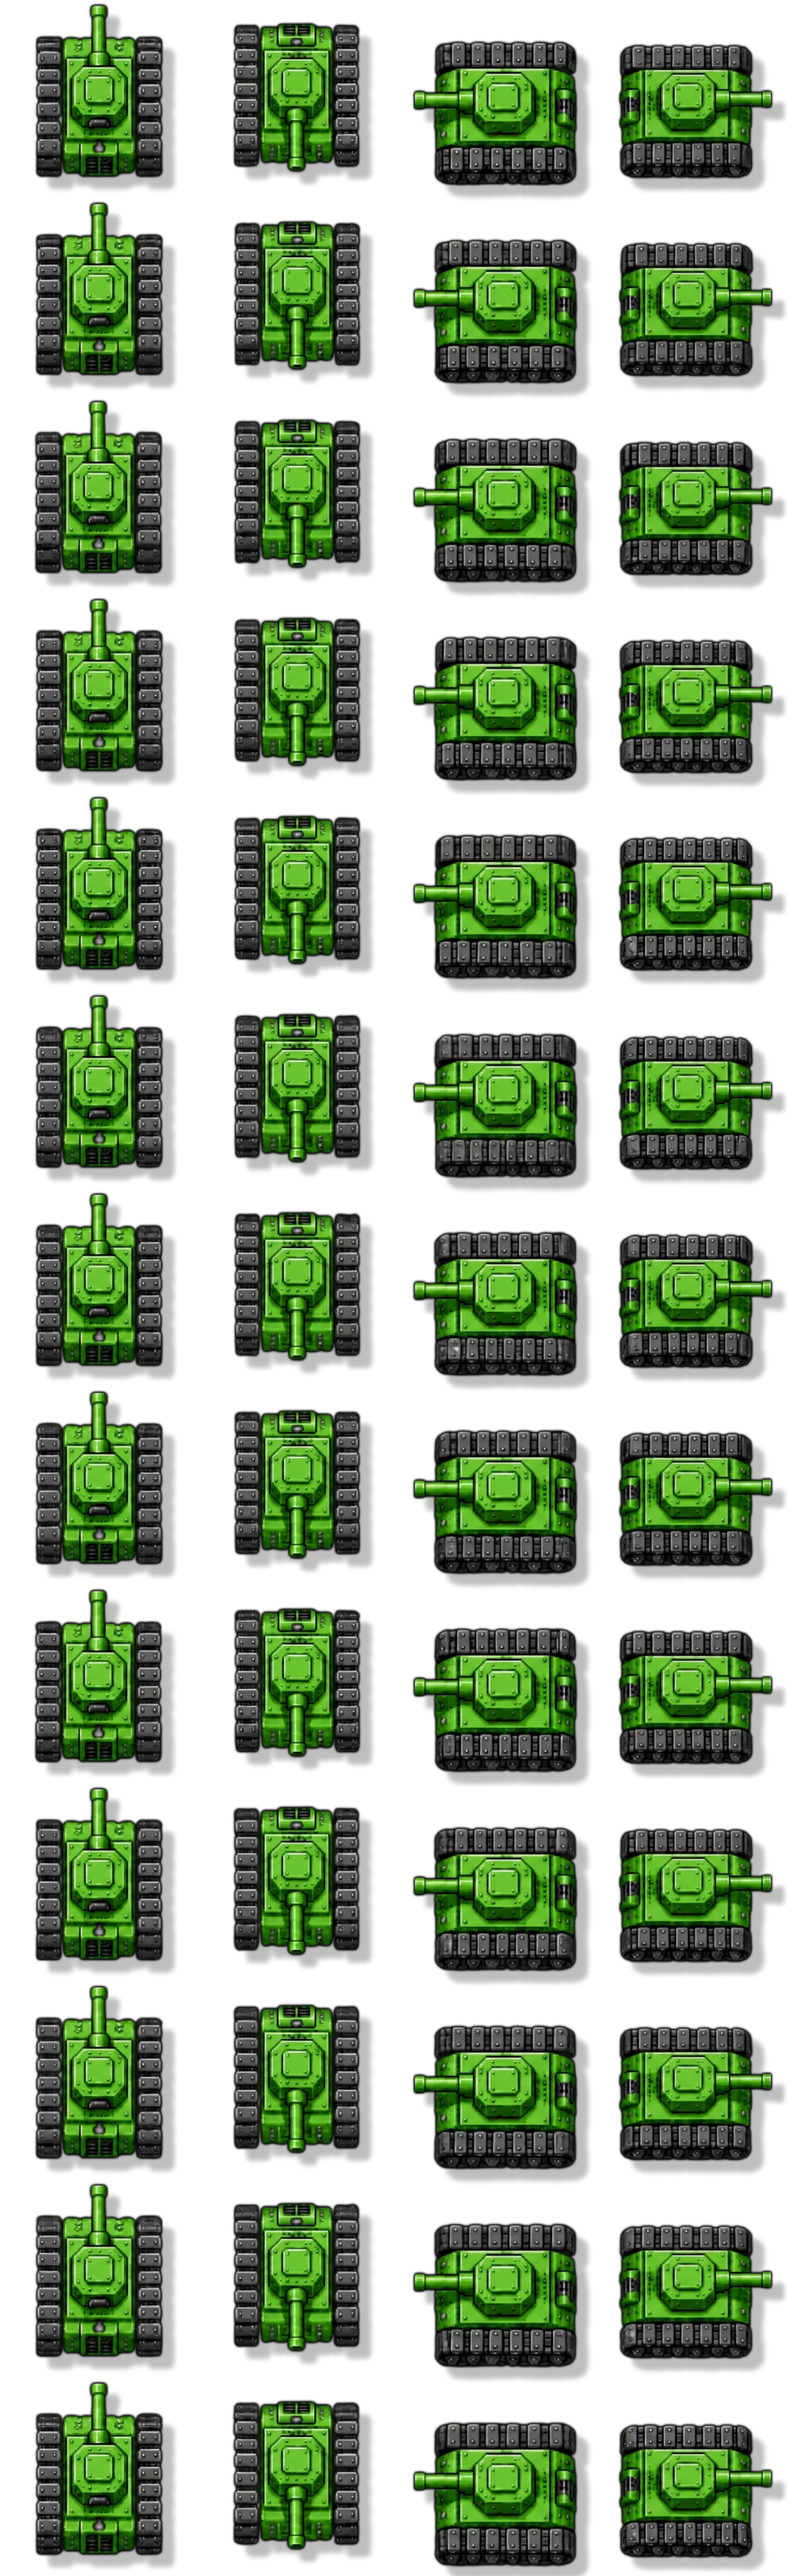
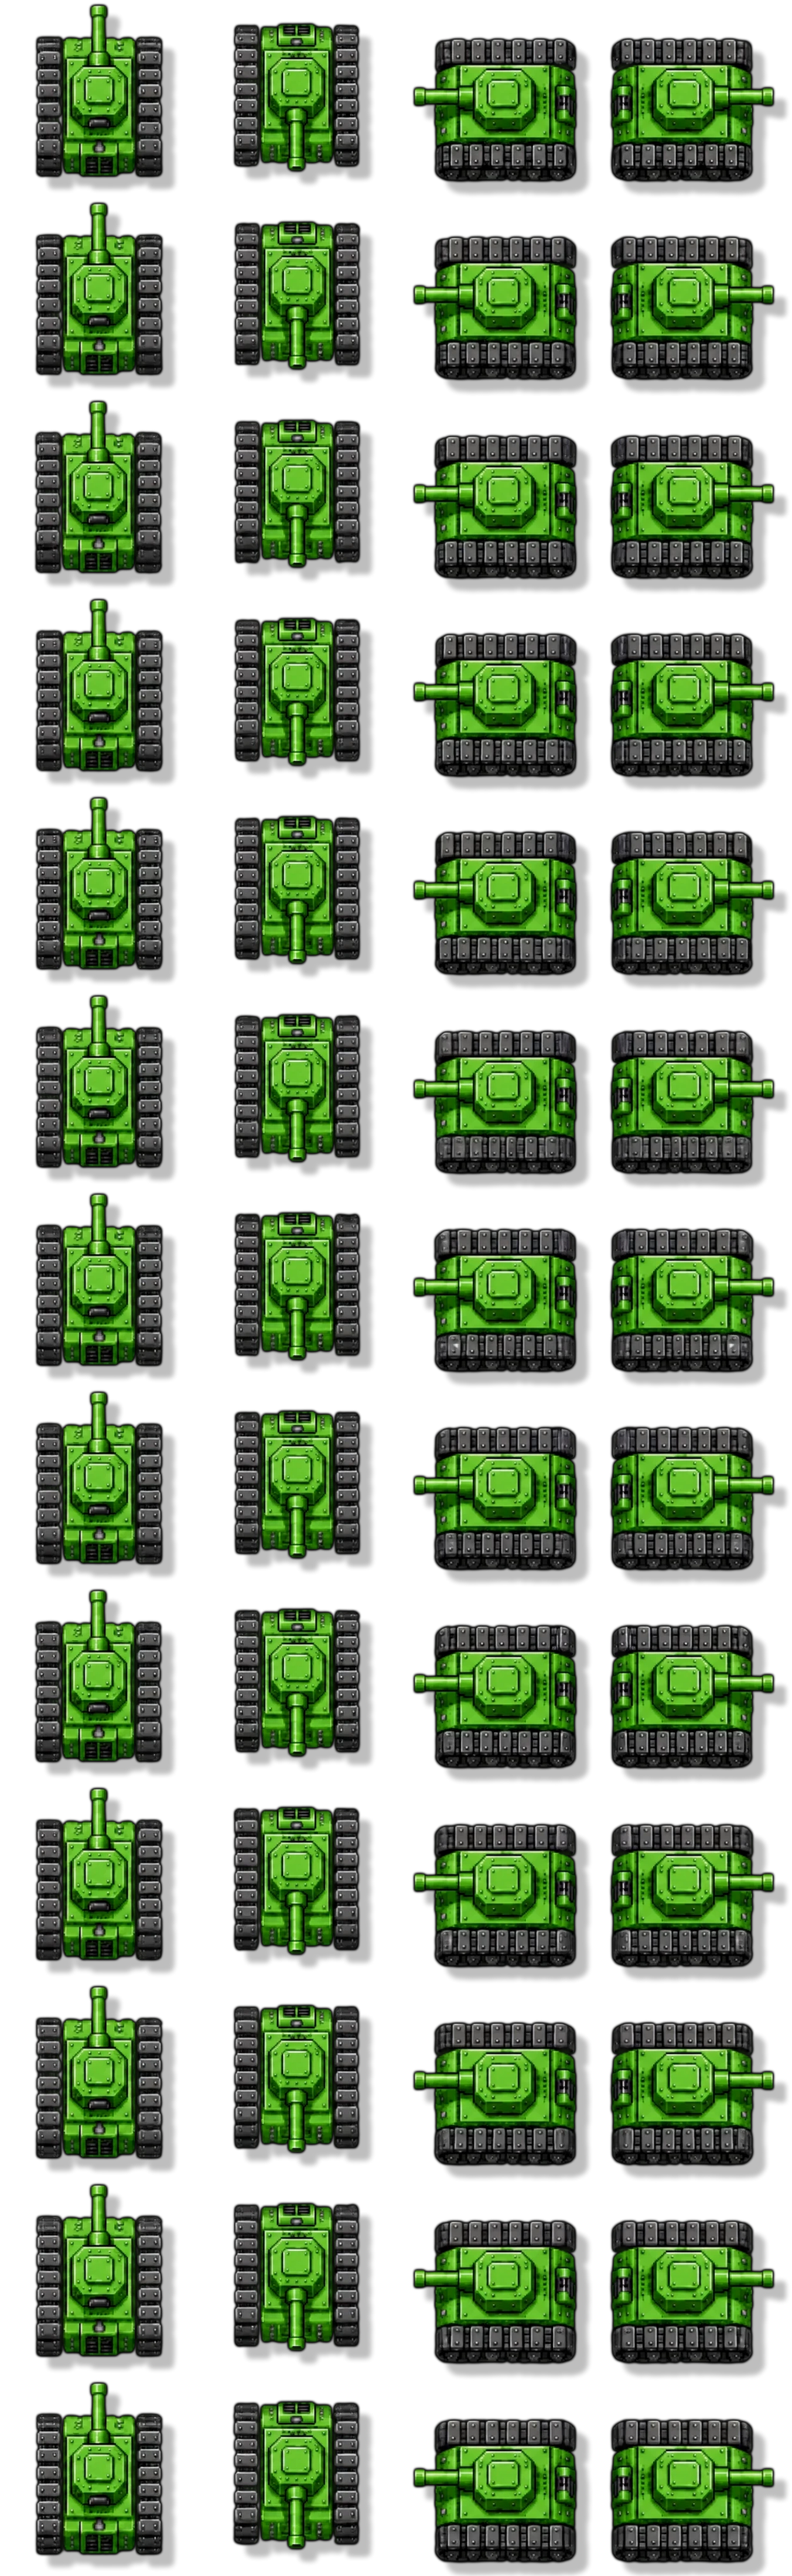
Animate-tanks-only-when-moving

Changed region(s): [[0.5312, 0.0, 1.0, 1.0]]

diff --git a/src/gameObjects/Tank.ts b/src/gameObjects/Tank.ts
@@ -57,6 +57,7 @@ const SKIN_LAYER_DESCRIPTIONS = [{ opacity: 1 }, { opacity: 0.5 }];
 const SNAP_SIZE = config.TILE_SIZE_MEDIUM;
 
 const STUN_BLINK_DELAY = 0.1;
+const MOVE_ANIMATION_MIN_DISTANCE = 0.25;
 
 export class Tank extends GameObject {
   public collider: SweptBoxCollider = new SweptBoxCollider(this, true);
@@ -105,6 +106,7 @@ export class Tank extends GameObject {
     TankCollisionResolution.Unknown;
   protected isCollisionAbusedByPlayer = false;
   protected collisionSystem: CollisionSystem;
+  private lastSettledAnimationPosition: Vector = null;
 
   constructor(type: TankType, behavior: TankBehavior, partyIndex: number) {
     super(64, 64);
@@ -129,6 +131,7 @@ export class Tank extends GameObject {
     collisionSystem.register(this.collider);
 
     this.behavior.setup(this, updateArgs);
+    this.lastSettledAnimationPosition = this.position.clone();
 
     SKIN_LAYER_DESCRIPTIONS.forEach(() => {
       const layer = new GameObject();
@@ -147,6 +150,7 @@ export class Tank extends GameObject {
 
   protected update(updateArgs: GameUpdateArgs): void {
     const { deltaTime, gameState } = updateArgs;
+    const didMoveLastTick = this.consumeSettledMovementForAnimation();
 
     this.updateCollisionStates();
 
@@ -205,7 +209,7 @@ export class Tank extends GameObject {
 
     this.lastFireTimer.update(deltaTime);
 
-    this.updateAnimation(deltaTime);
+    this.updateAnimation(deltaTime, didMoveLastTick);
 
     this.collider.update();
 
@@ -242,8 +246,11 @@ export class Tank extends GameObject {
     }
   }
 
-  protected updateAnimation(deltaTime: number): void {
-    this.skinAnimation.update(this, deltaTime);
+  protected updateAnimation(
+    deltaTime: number,
+    advanceFrames = true,
+  ): void {
+    this.skinAnimation.update(this, deltaTime, advanceFrames);
     const frame = this.skinAnimation.getCurrentFrame();
 
     if (this.hitFlash > 0) {
@@ -263,6 +270,18 @@ export class Tank extends GameObject {
       painter.sprite = sprite;
       painter.flash = this.hitFlash;
     });
+  }
+
+  private consumeSettledMovementForAnimation(): boolean {
+    if (this.lastSettledAnimationPosition === null) {
+      this.lastSettledAnimationPosition = this.position.clone();
+      return false;
+    }
+
+    const distance = this.position.distanceTo(this.lastSettledAnimationPosition);
+    this.lastSettledAnimationPosition.copyFrom(this.position);
+
+    return distance >= MOVE_ANIMATION_MIN_DISTANCE;
   }
 
   protected collide(collision: Collision): void {

diff --git a/src/tank/TankSkinAnimation.ts b/src/tank/TankSkinAnimation.ts
@@ -58,12 +58,14 @@ export class TankSkinAnimation {
     this.currentAnimationMap = this.idleAnimationMap;
   }
 
-  public update(tank: Tank, deltaTime: number): void {
+  public update(tank: Tank, deltaTime: number, advanceFrames = true): void {
     this.rotation = tank.rotation;
 
     if (tank.state === this.tankState) {
       const animation = this.currentAnimationMap.get(this.rotation);
-      animation.update(deltaTime);
+      if (advanceFrames) {
+        animation.update(deltaTime);
+      }
       return;
     }
 

diff --git a/src/gameObjects/EnemyTank.ts b/src/gameObjects/EnemyTank.ts
@@ -123,8 +123,11 @@ export class EnemyTank extends Tank {
     return this;
   }
 
-  protected updateAnimation(deltaTime: number): void {
-    super.updateAnimation(deltaTime);
+  protected updateAnimation(
+    deltaTime: number,
+    advanceFrames = true,
+  ): void {
+    super.updateAnimation(deltaTime, advanceFrames);
 
     const shouldTint = this.type.hasDrop && this.isDropBlinkVisible(deltaTime);
 
